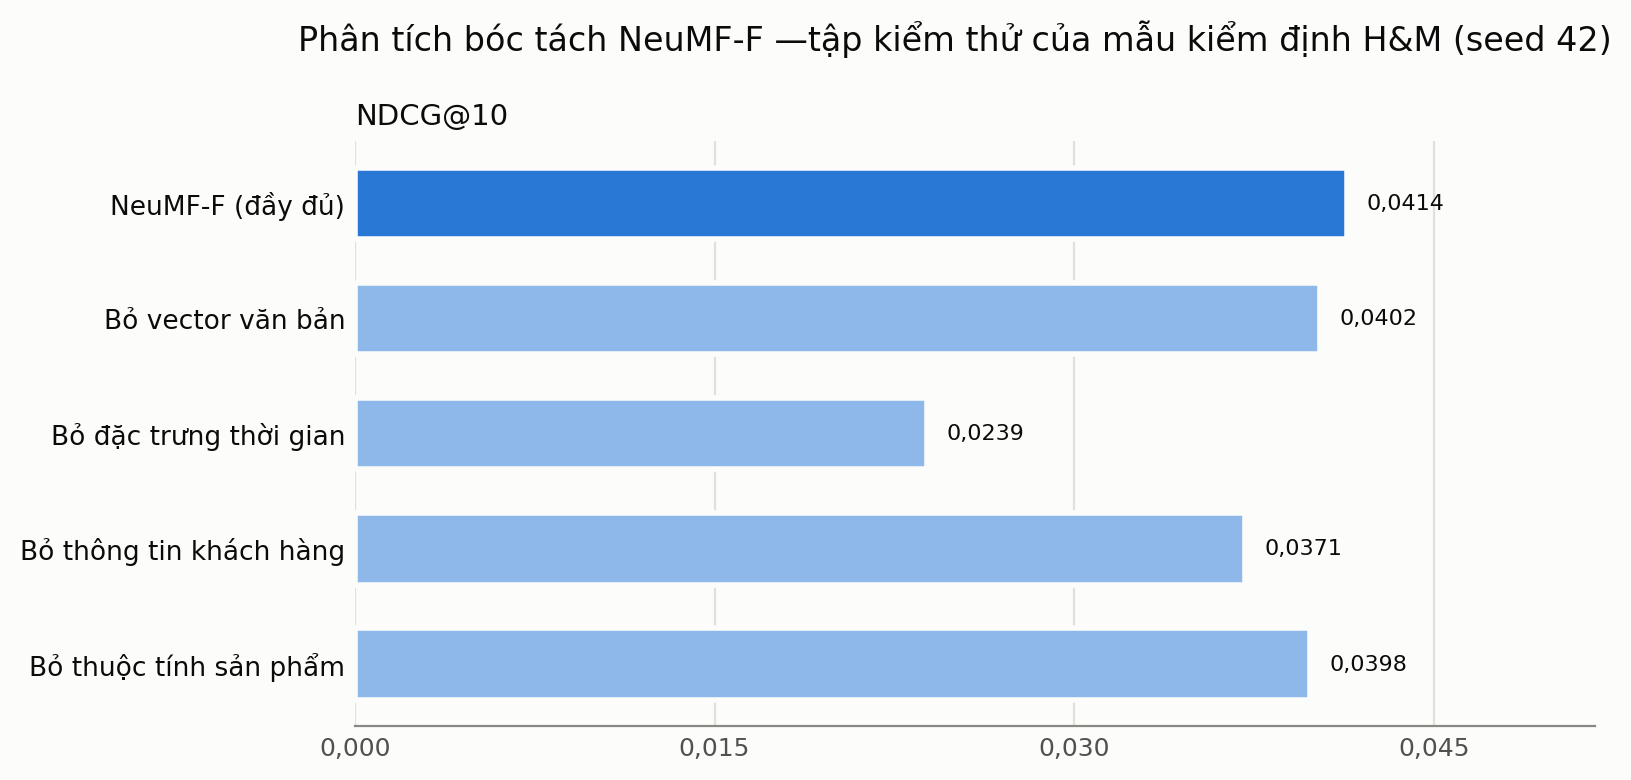
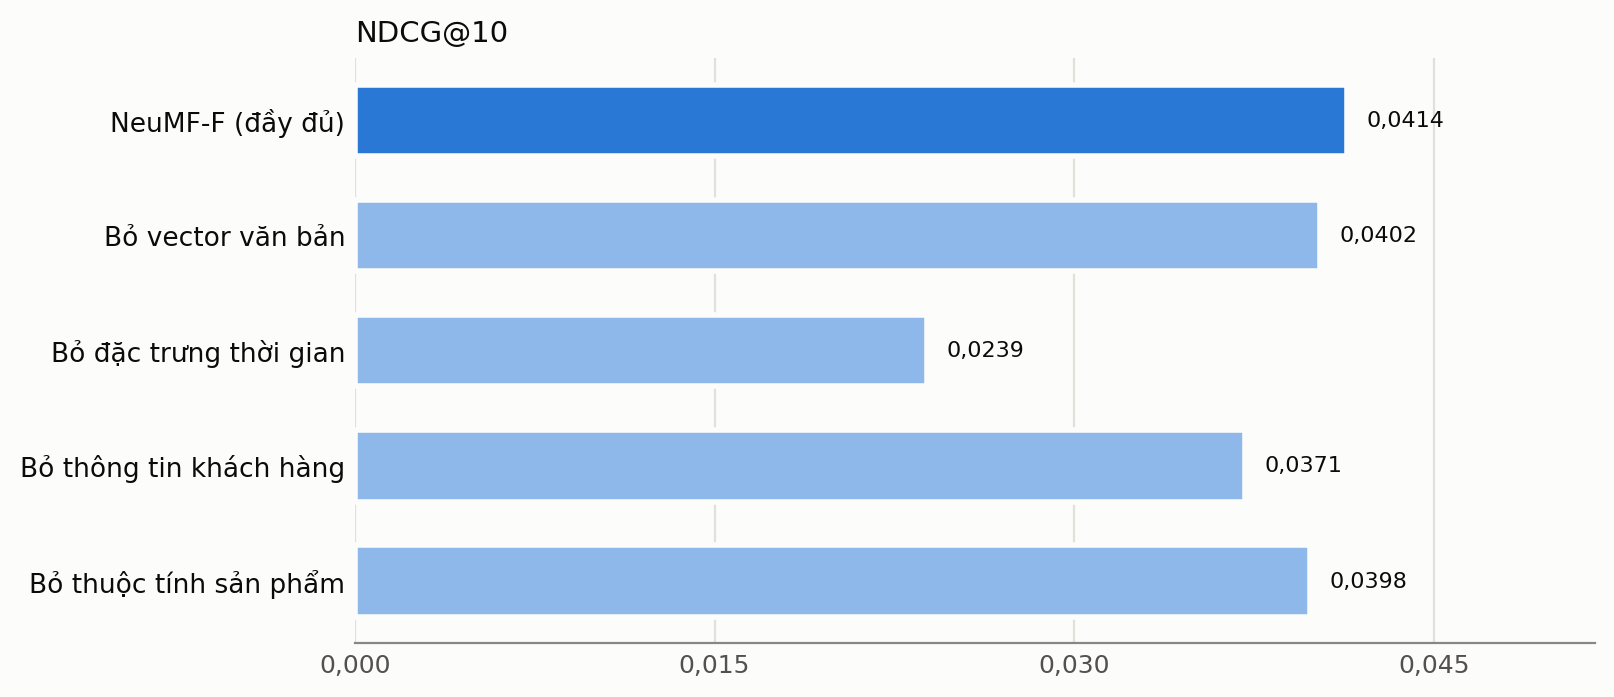
Sửa code còn tồn: f-string Python 3.11, tiêu đề Hình 4.3, DOI tràn lề
- scripts/25_bosung.py: tách f-string lồng nháy kép (lỗi cú pháp trên Python 3.11)
- scripts/24_report_v2.py: bỏ suptitle hình bóc tách (trùng caption); vẽ lại v2_ablation.png
- preamble.tex: biburlnumpenalty/biburlucpenalty = 100 để DOI [15] ngắt dòng được

diff --git a/neumf_project/scripts/25_bosung.py b/neumf_project/scripts/25_bosung.py
@@ -109,8 +109,9 @@ def tune(args) -> None:
     feats = [hyb.features(r.user, r.candidates) for r in st.records]
     labels = [np.isin(r.candidates, r.positives) for r in st.records]
     users = [r.user for r in st.records]
+    comps = ", ".join(f"{k} {reg[k]['params']}" for k in COMPONENTS)
     print(f"[{V.NAME}] mẫu phát triển, tập xác thực: {len(st.records):,} người dùng, {len(st.targets):,} cặp đúng | "
-          f"thành phần {', '.join(f'{k} {reg[k]["params"]}' for k in COMPONENTS)} | code {prov['code_hash']} "
+          f"thành phần {comps} | code {prov['code_hash']} "
           f"({time.time() - t0:.0f}s)", flush=True)
     # Ba thành phần đứng riêng trên cùng máy, cùng tệp đặc trưng (min–max không đổi thứ tự): để đặt cạnh các cách kết
     # hợp; Content có thể lệch nhẹ so với lần tinh chỉnh đã đăng ký (PREREG_bosung mục 3).

diff --git a/neumf_project/scripts/24_report_v2.py b/neumf_project/scripts/24_report_v2.py
@@ -948,9 +948,7 @@ def plot_ablation(abl: pd.DataFrame, fig_dir: Path):
     ax.set_title("NDCG@10", fontsize=10.5, color=INK, loc="left")
     style(ax, "x")
     ax.set_yticks(y, names, fontsize=9.5, color=INK)
-    ax.invert_yaxis()
-    fig.suptitle(f"Phân tích bóc tách NeuMF-F —{TEXT['test_fig'].lower()[0]}{TEXT['test_fig'][1:]} "
-                 f"(seed {int(abl.iloc[0]['seed'])})", fontsize=12, color=INK, y=1.04)
+    ax.invert_yaxis()  # không đặt suptitle: chú thích LaTeX đã là tiêu đề của hình
     fig.savefig(fig_dir / "v2_ablation.png", dpi=200, bbox_inches="tight", facecolor=SURFACE)
     plt.close(fig)
 

diff --git a/Report DACNTT/preamble.tex b/Report DACNTT/preamble.tex
@@ -215,8 +215,11 @@
 % (and, in, pages, andothers). Dùng chuỗi tiếng Anh, riêng "and"/"et al." đổi sang tiếng Việt.
 \DeclareLanguageMapping{vietnamese}{english}
 \DefineBibliographyStrings{vietnamese}{andothers={và cộng sự}, and={và}}
-\usepackage{xurl} 
-\let\parencite\cite 
+\usepackage{xurl}
+% Cho phép ngắt DOI/URL sau chữ số và chữ hoa (DOI 10.1109/ICDM... từng tràn lề phải)
+\setcounter{biburlnumpenalty}{100}
+\setcounter{biburlucpenalty}{100}
+\let\parencite\cite
 
 
 
